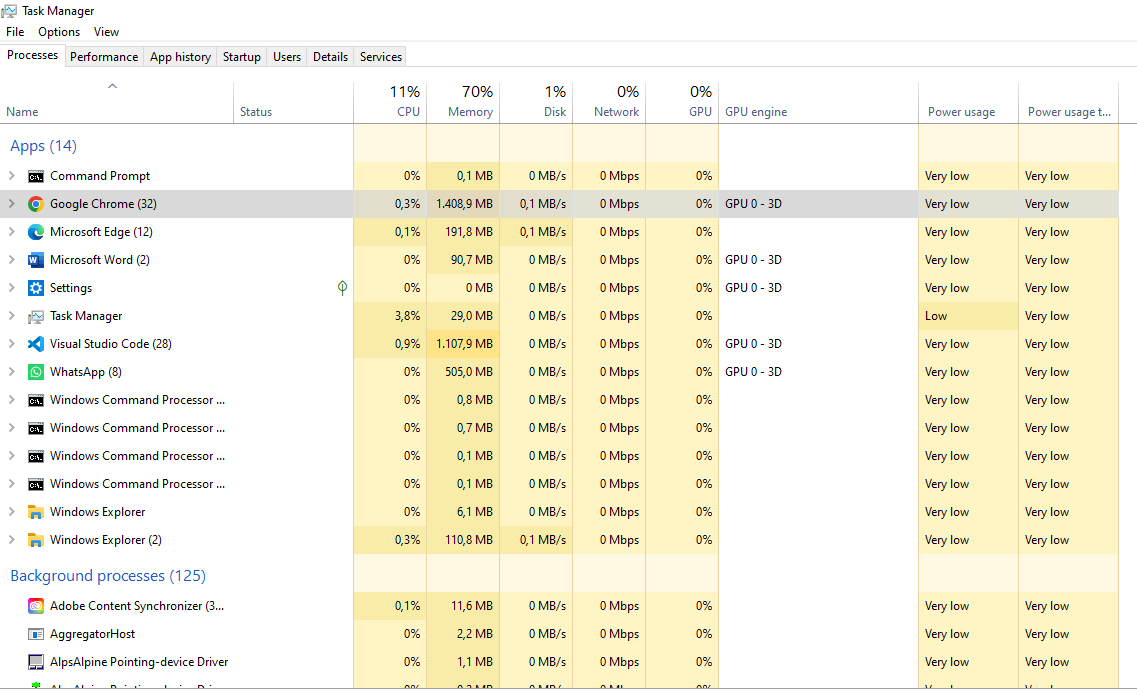
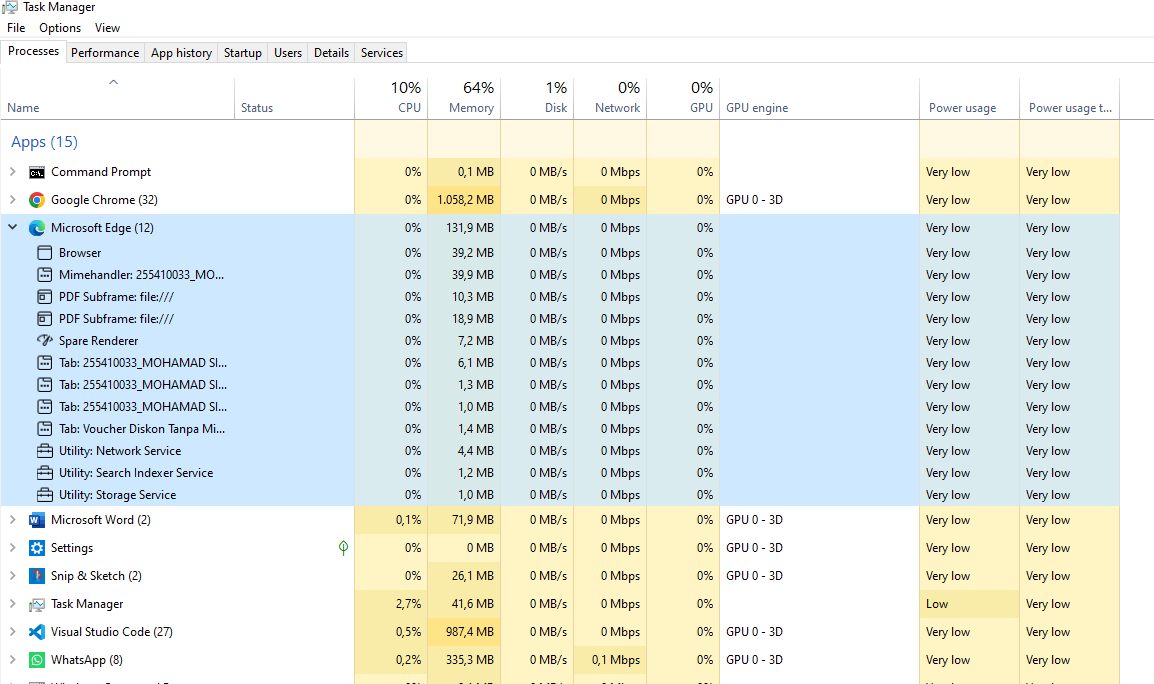
ubah readme

diff --git a/02/images/Readme.md b/02/images/Readme.md
@@ -7,11 +7,39 @@ Nama: Mohamad Sindu Oktorino
 
 Praktikum
 
+**A. Proses pada Satu Node**
+
 1.
 
 <img src="taskmanager.png" alt="TaskManager">
 
-Pembahasan:
+
+
+2.
+
+<img src="taskmanager2.png" alt="TaskManager2">
+
+
+3.
+
+<img src="taskmanager3.png" alt="TaskManager3">
+<img src="taskmanager4.png" alt="TaskManager4">
+
+
+4.
+1. **Menampilkan Proses:** Membuka Task Manager (`Ctrl + Shift + Esc`) untuk melihat seluruh aplikasi dan proses yang sedang berjalan pada sistem operasi.
+
+2. **Menjalankan Aplikasi:** Membuka Microsoft Edge untuk melihat proses utamanya yang terpecah menjadi beberapa proses turunan di Task Manager demi keamanan dan kestabilan sistem.
+
+3. **Mematikan Proses Paksa:** Menghentikan Microsoft Edge tanpa tombol keluar (`X`), melainkan melalui fitur *End task* di Task Manager atau perintah `taskkill /f /im msedge.exe` pada Command Prompt untuk memaksa sistem melepaskan alokasi *resources*-nya.
+4. **Me-restart Proses:** Setelah proses dimatikan paksa oleh sistem, aplikasi dapat di-*restart* dengan membukanya kembali dari awal.
+
+**B Komunikasi Antar Proses pada Sistem Terdistribusi**
+
+
+
+
+
 
 
 💥Kesimpulan
